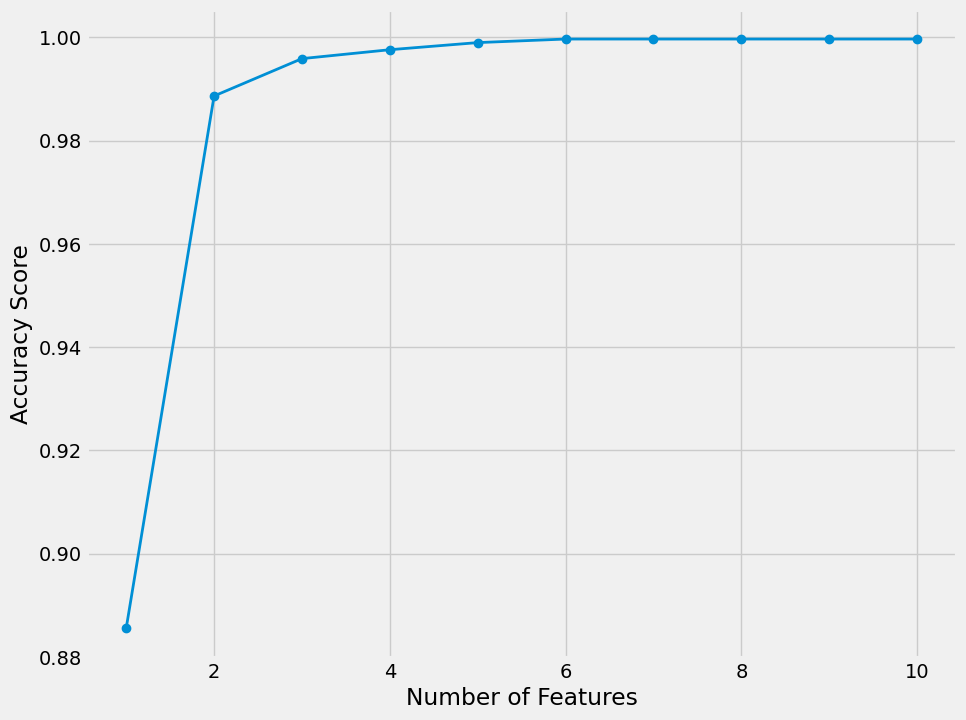
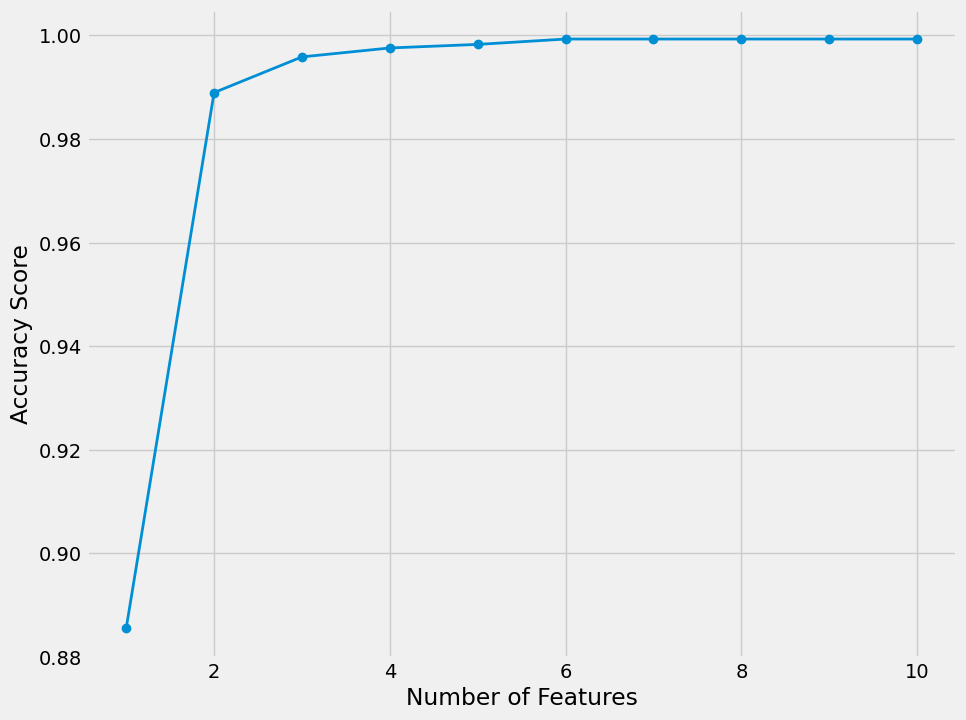
finalize the project

diff --git a/src/models/train_model.py b/src/models/train_model.py
@@ -86,13 +86,13 @@ selected_features, ordered_features, ordered_scores = learner.forward_selection(
 selected_features = ['acc_z_freq_0.0_Hz_ws_14',
  'acc_x_freq_0.0_Hz_ws_14',
  'gyr_r_freq_0.0_Hz_ws_14',
- 'acc_y_temp_mean_ws_5',
- 'acc_r_temp_std_ws_5',
- 'gyr_x',
- 'acc_r_freq_0.0_Hz_ws_14',
- 'gyr_y_temp_mean_ws_5',
- 'gyr_r_temp_mean_ws_5',
- 'gyr_x_freq_1.429_Hz_ws_14']
+ 'acc_z',
+ 'acc_y_freq_0.0_Hz_ws_14',
+ 'gyr_r_freq_1.429_Hz_ws_14',
+ 'gyr_r_max_freq',
+ 'gyr_x_max_freq',
+ 'acc_z_freq_2.143_Hz_ws_14',
+ 'acc_x_max_freq']
 
 plt.figure(figsize=(10,8))
 plt.plot(range(1, len(ordered_scores)+1), ordered_scores, marker='o')
@@ -256,27 +256,8 @@ classes = class_test_prob_y.columns
 cm = confusion_matrix(y_true=y_test, y_pred=class_test_y, labels=classes)
 
 plt.figure(figsize=(10,10))
-plt.imshow(cm, interpolation="nearest", cmap=plt.cm.Blues)
+sns.heatmap(cm, annot=True, fmt='d', cmap="Blues",xticklabels=classes, yticklabels=classes)
 plt.title("Confusion Matrix")
-plt.colorbar()
-tick_marks = np.arange(len(classes))
-plt.xticks(tick_marks, classes)
-plt.yticks(tick_marks, classes)
-
-thresh = cm.max() / 2
-for i, j in itertools.product(range(cm.shape[0]), range(cm.shape[1])):
-  plt.text(
-    i,
-    j,
-    format(cm[i,j]),
-    horizontalalignment = "center",
-    color="white" if cm[i,j] > thresh else "black"
-  )
-
-plt.ylabel("True label")
-plt.xlabel("Predicted label")
-plt.grid(False)
-
 
 # --------------------------------------------------------------
 # Select train and test data based on participant
@@ -325,27 +306,10 @@ classes = class_test_prob_y.columns
 
 cm = confusion_matrix(y_true=Y_test, y_pred=class_test_y, labels=classes)
 
-plt.figure(figsize=(10,10))
-plt.imshow(cm, interpolation="nearest", cmap=plt.cm.Blues)
+plt.figure(figsize=(11,10))
+sns.heatmap(cm, annot=True, fmt='d', cmap="Blues", xticklabels=classes, yticklabels=classes)
 plt.title("Confusion Matrix")
-plt.colorbar()
-tick_marks = np.arange(len(classes))
-plt.xticks(tick_marks, classes)
-plt.yticks(tick_marks, classes)
 
-thresh = cm.max() / 2
-for i, j in itertools.product(range(cm.shape[0]), range(cm.shape[1])):
-  plt.text(
-    i,
-    j,
-    format(cm[i,j]),
-    horizontalalignment = "center",
-    color="white" if cm[i,j] > thresh else "black"
-  )
-
-plt.ylabel("True label")
-plt.xlabel("Predicted label")
-plt.grid(False)
 
 # --------------------------------------------------------------
 # Try nueral network model with the selected features
